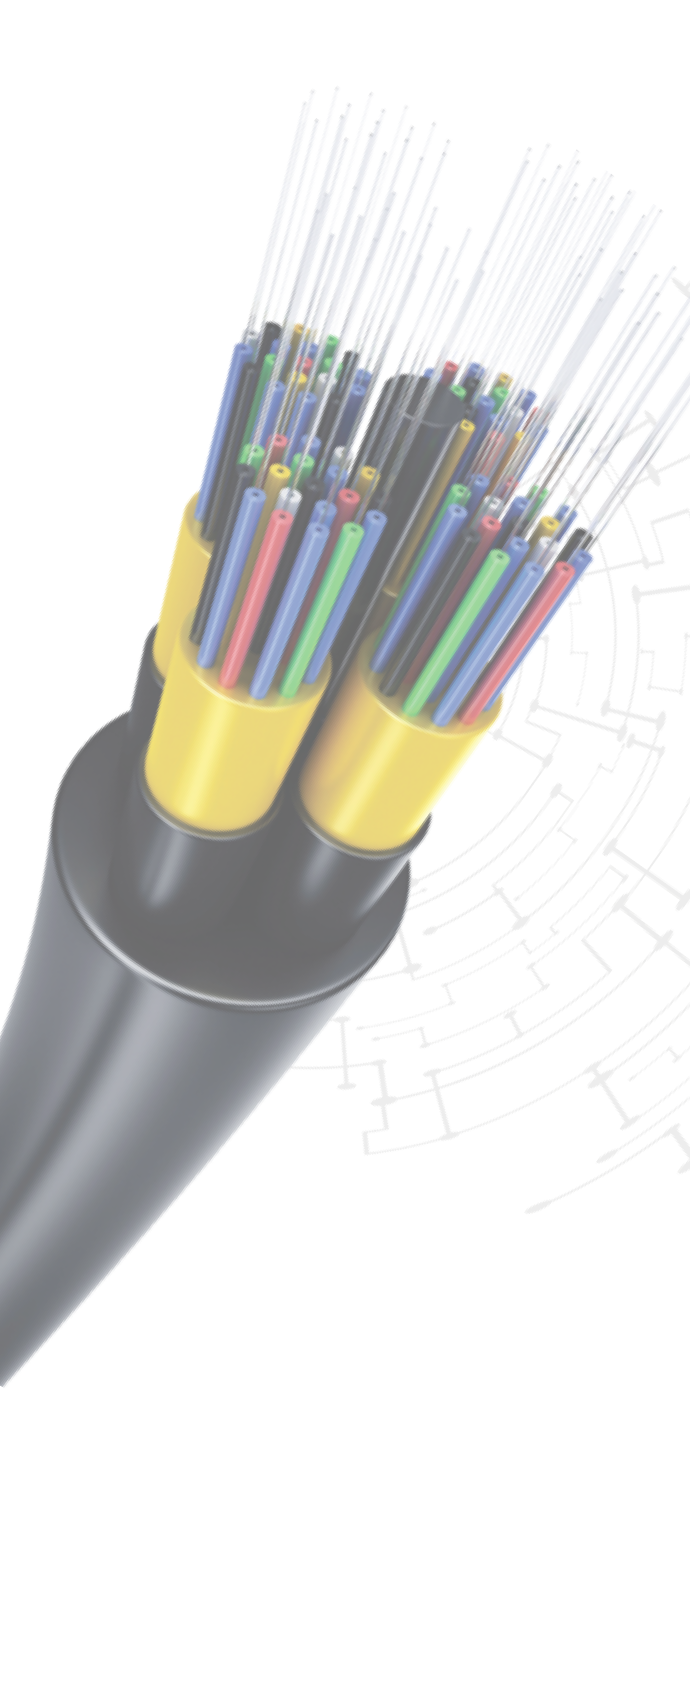
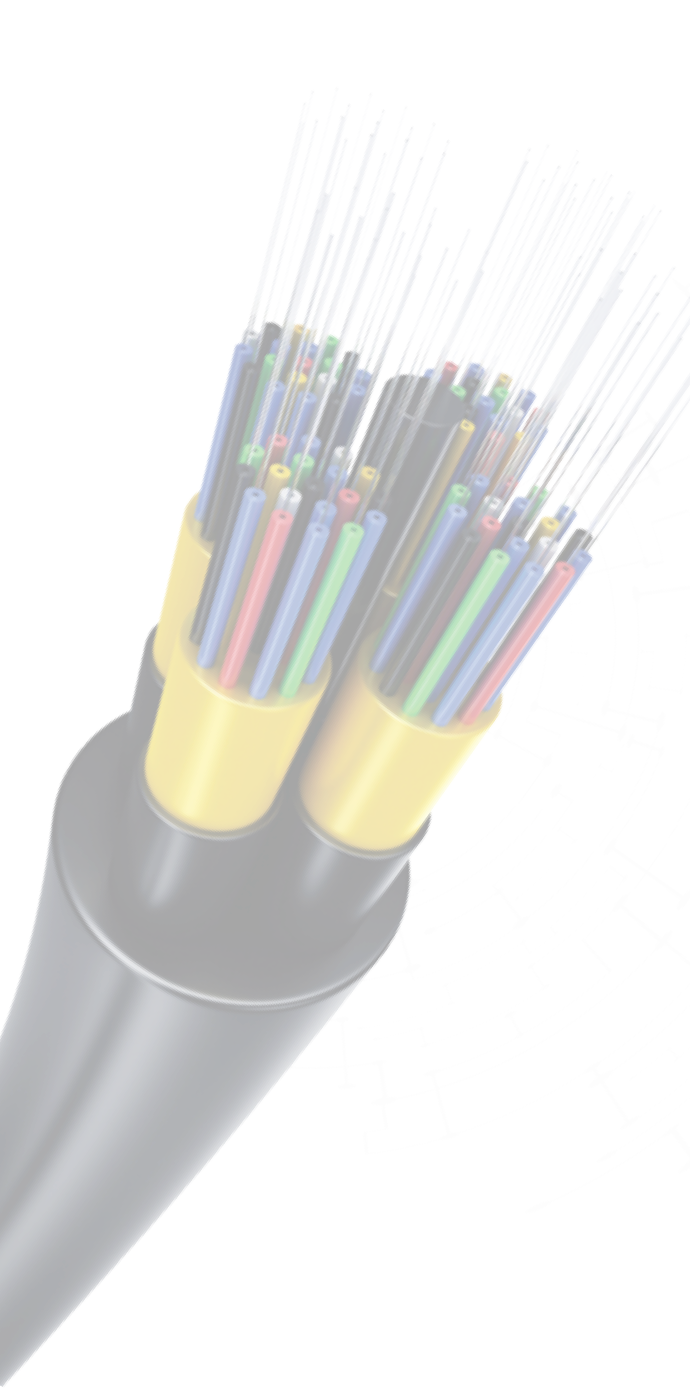
added minor css changes

diff --git a/src/screens/Dashboard.tsx b/src/screens/Dashboard.tsx
@@ -6,7 +6,6 @@ import Procurement from "@/components/Procurement";
 import VendorPerformance from "@/components/VendorPerformance";
 
 export default function Dashboard() {
-
     const cardData = [
         {
             imageSrc: "/images/fiber-cards/1.png",
@@ -43,34 +42,48 @@ export default function Dashboard() {
     ];
 
     return (
-        <div className="bg-[#EEEEEE] p-6 min-h-screen">
-            <Header />
-            <h1 className="text-2xl font-bold mb-4">Dashboard</h1>
-            <p className="mb-6">Fiber Optics Orders</p>
-
-            <div className="grid grid-cols-1 md:grid-cols-4 gap-8">
-                {cardData.map((card, index) => (
-                    <FiberCard
-                        key={index}
-                        imageSrc={card.imageSrc}
-                        count={card.count}
-                        title={card.title}
-                        arrowType={card.arrowType}
-                        percentage={card.percentage}
-                        timeFrame={card.timeFrame}
-                    />
-                ))}
-            </div>
-            <div className="grid grid-cols-2 w-full gap-4">
-                <Procurement />
-                <VendorPerformance />
-                <div>
-                    <h1 className="text-2xl font-bold mb-4">Billing and Invoices</h1>
-                    <Billing/>
+        <div className="relative h-screen overflow-y-auto" >
+            <div className="relative z-10 bg-[#EEEEEE] p-6 min-h-screen">
+                <Header />
+                <div className="flex flex-row justify-between mt-4">
+                    <h1 className="text-2xl font-bold mb-4 font-barlow">Dashboard</h1>
+                    <div><img src="/images/filter.png" alt="" className="w-[250px] h-[65px]" /></div>
                 </div>
-                <div>
-                    <h1 className="text-2xl font-bold mb-4">Technical Team</h1>
-                    <Chart />
+
+                <p className="mb-6">Fiber Optics Orders</p>
+
+                <div className="grid grid-cols-1 md:grid-cols-4 gap-8">
+                    {cardData.map((card, index) => (
+                        <FiberCard
+                            key={index}
+                            imageSrc={card.imageSrc}
+                            count={card.count}
+                            title={card.title}
+                            arrowType={card.arrowType}
+                            percentage={card.percentage}
+                            timeFrame={card.timeFrame}
+                        />
+                    ))}
+                </div>
+                <div className="relative grid grid-cols-2 w-full gap-4">
+                    <div
+                        className="absolute inset-0 bg-no-repeat bg-cover bg-center opacity-10 z-0"
+                        style={{ backgroundImage: "url('/images/dashboard-bg.png')" }}
+                    ></div>
+                    <div className="relative z-10">
+                        <Procurement />
+                    </div>
+                    <div className="relative z-10">
+                        <VendorPerformance />
+                    </div>
+                    <div className="relative z-10">
+                        <h1 className="text-2xl font-bold mb-4">Billing and Invoices</h1>
+                        <Billing />
+                    </div>
+                    <div className="relative z-10">
+                        <h1 className="text-2xl font-bold mb-4">Technical Team</h1>
+                        <Chart />
+                    </div>
                 </div>
 
             </div>

diff --git a/src/app/globals.css b/src/app/globals.css
@@ -2,6 +2,8 @@
 @tailwind components;
 @tailwind utilities;
 
+@import url('https://fonts.googleapis.com/css2?family=Barlow:ital,wght@0,100;0,200;0,300;0,400;0,500;0,600;0,700;0,800;0,900;1,100;1,200;1,300;1,400;1,500;1,600;1,700;1,800;1,900&family=Fauna+One&display=swap');
+
 :root {
   --background: #ffffff;
   --foreground: #171717;
@@ -29,9 +31,12 @@ body {
   .no-scrollbar::-webkit-scrollbar {
     display: none;
   }
+
   /* Hide scrollbar for IE, Edge and Firefox */
   .no-scrollbar {
-    -ms-overflow-style: none; /* IE and Edge */
-    scrollbar-width: none; /* Firefox */
+    -ms-overflow-style: none;
+    /* IE and Edge */
+    scrollbar-width: none;
+    /* Firefox */
   }
 }

diff --git a/src/components/Sidebar.tsx b/src/components/Sidebar.tsx
@@ -18,7 +18,7 @@ const Sidebar = () => {
         <div className="relative w-64 min-h-screen p-6 shadow-lg">
             <div
                 className="absolute inset-0 bg-no-repeat bg-bottom -ml-16"
-                style={{ backgroundImage: "url('/images/sidebar-bg.png')", backgroundSize: "250px 700px" }}
+                style={{ backgroundImage: "url('/images/sidebar-bg.png')", backgroundSize: "250px 450px" }}
             ></div>
             <div className="relative z-10">
                 <div className="mb-8 flex items-center">

diff --git a/tailwind.config.ts b/tailwind.config.ts
@@ -13,6 +13,9 @@ const config: Config = {
         background: "var(--background)",
         foreground: "var(--foreground)",
       },
+      fontFamily: {
+        barlow: ["Barlow", "sans-serif"],
+      },
     },
   },
   plugins: [],
